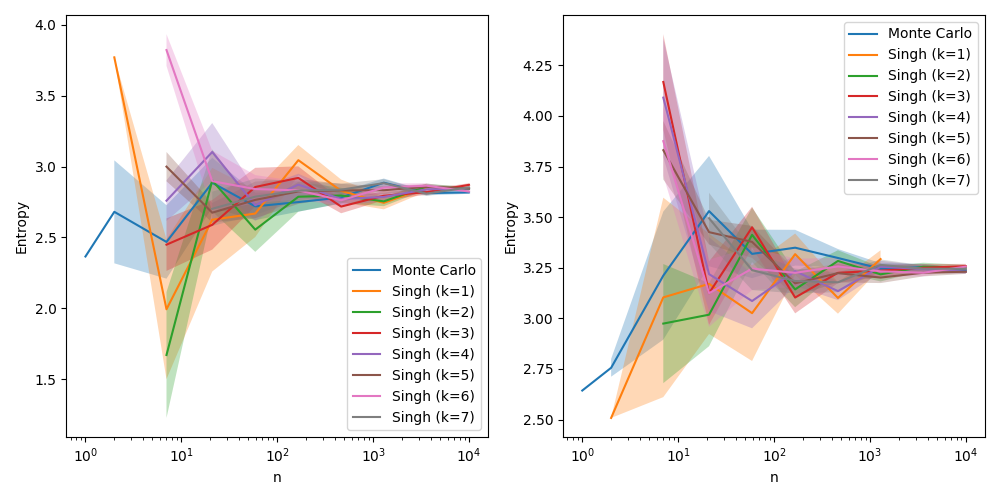
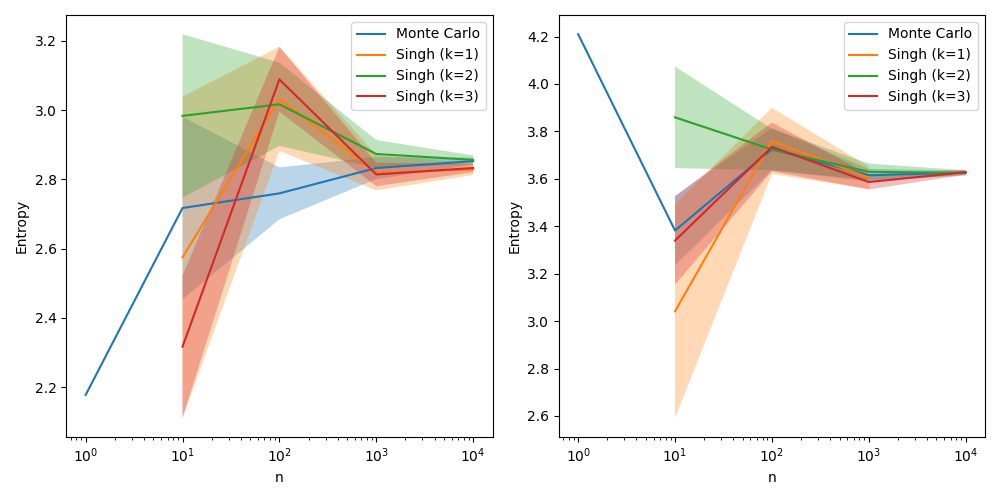
First commit

diff --git a/entropy_estimator/tmp_entropy.py b/entropy_estimator/tmp_entropy.py
@@ -21,7 +21,7 @@ def kth_nearest_neighbor_dist(x, k=1):
     # xxT = x @ x.t()
     xxT = torch.einsum("i...,j...->ij", x, x)
     sq_pair_dist = torch.diagonal(xxT, 0)[:, None] + torch.diagonal(xxT, 0)[None, :] - 2 * xxT
-    return torch.kthvalue(sq_pair_dist, k + 1, dim=1).values ** 0.5
+    return torch.kthvalue(sq_pair_dist, k+1, dim=1).values ** 0.5
 
 
 def entropy_singh_2003(p: Distribution, n: int, k: int):
@@ -47,13 +47,16 @@ def do_entropy_compare(p: Distribution, ns, ks):
                 h_singh[j][i] = np.nan, np.nan
             else:
                 h_singh[j][i] = entropy_singh_2003(p, n, k)
+                print("n: " + str(n)+ " k: " + str(k) + str(h_singh[j][i]))
+                print()
+
     return h_mc, h_singh
 
 
 if __name__ == "__main__":
     import matplotlib.pyplot as plt
 
-    torch.manual_seed(2492497)
+    torch.manual_seed(0)
     
     # multivariate distribution with mean 0 [2x2], covariance identity matrix [2x2] 
     p1 = MultivariateNormal(torch.zeros(2), torch.eye(2))  
@@ -62,8 +65,8 @@ if __name__ == "__main__":
         MultivariateNormal(torch.randn(4, 2), torch.stack([torch.eye(2)]*4, dim=0)),
     )
 
-    ns = np.logspace(0, 4, 10).astype(int)
-    ks = np.arange(1, 8)
+    ns = np.logspace(0, 4, 5).astype(int)
+    ks = np.arange(1, 4)
     h_mc_1, h_singh_1 = do_entropy_compare(p1, ns, ks)
     h_mc_2, h_singh_2 = do_entropy_compare(p2, ns, ks)
 
